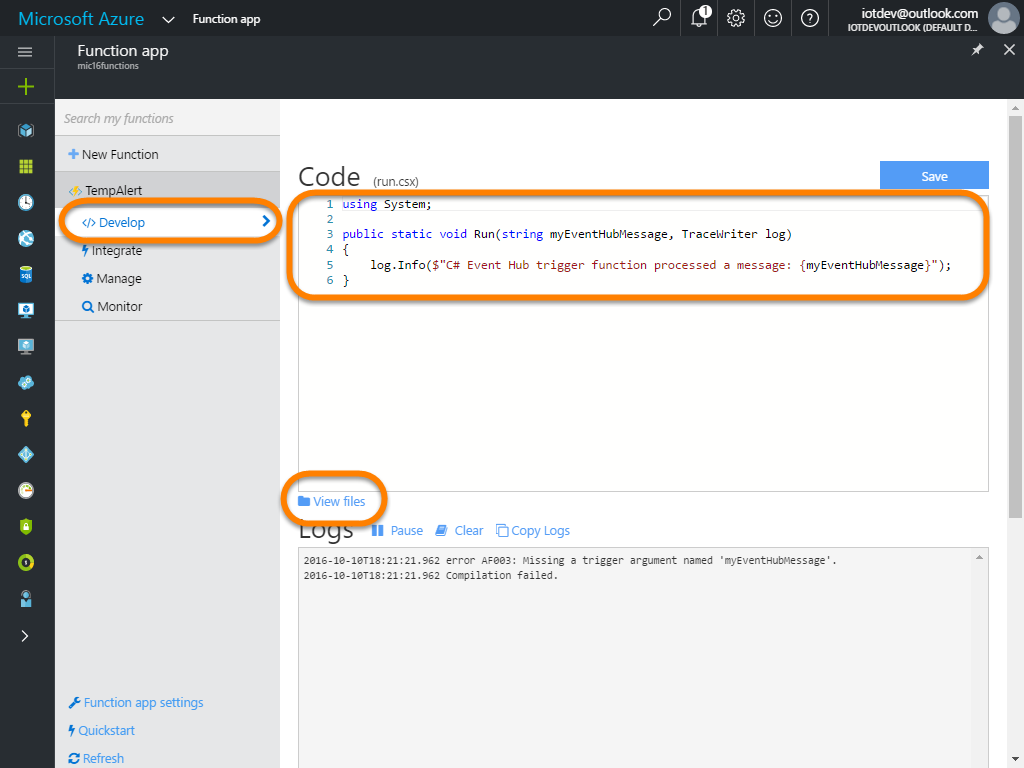
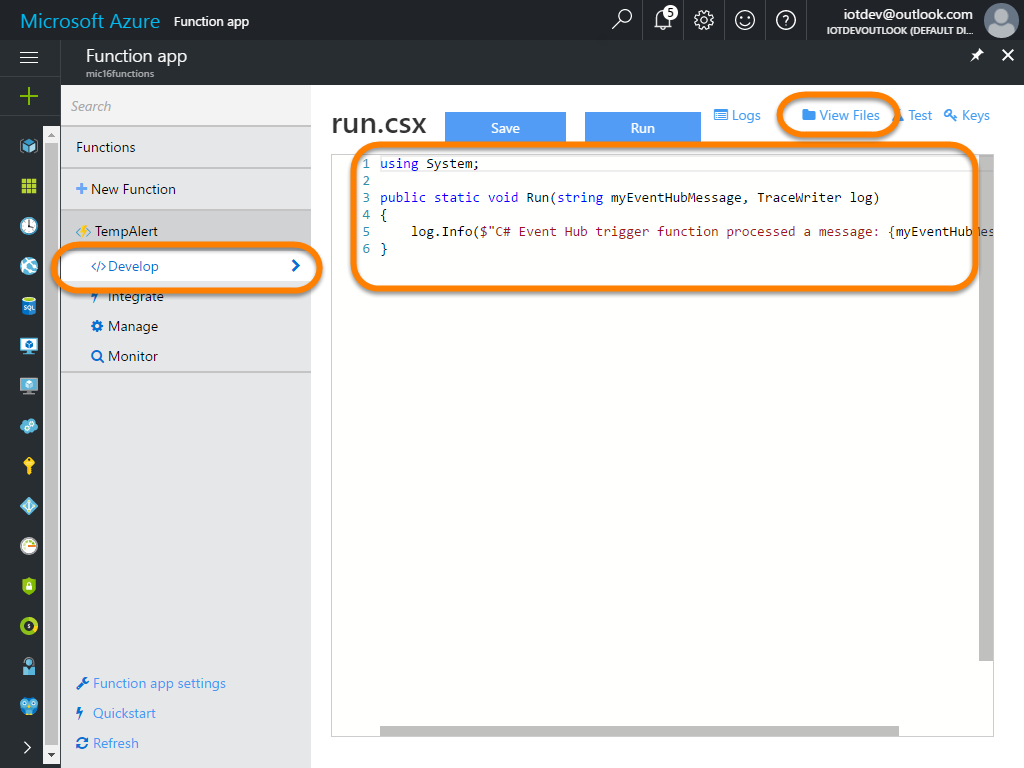
Updating lab - through temp alert function

Changed region(s): [[0.0, 0.0, 1.0, 1.0], [0.375, 0.9375, 0.875, 0.9688], [0.0, 0.0625, 0.0312, 0.125]]

diff --git a/HOLs/readme.md b/HOLs/readme.md
@@ -1485,7 +1485,9 @@ Previously, we setup our ***&lt;name&gt;job*** Stream Analytics Job to forward m
 
 In this task, we'll create the **TempAlert** function and have it receive those alert messages from the event hub, and send a temp alert message back down to the device.
 
-1. Open the **<a target="_blank" href="https://portal.azure.com/">Azure Portal</a>** (<a target="_blank" href="https://portal.azure.com/">https://portal.azure.com</a>) in the browser, and close any blades open from previous steps.  Then click "**+ New**" | "**Virtual Machines**" | "**Function App**". Function apps used to be listed under **Compute** and your Azure Portal may differ from the screenshot below.
+1. Open the **<a target="_blank" href="https://portal.azure.com/">Azure Portal</a>** (<a target="_blank" href="https://portal.azure.com/">https://portal.azure.com</a>) in the browser, and close any blades open from previous steps.  Then click "**+ New**" | "**Compute**" | "**Function App**": 
+
+    > **Note**: Function apps may appear in your portal **Virtual Machines** instead.
 
     ![New Function App](images/12065-NewFunctionApp.png)
 
@@ -1494,7 +1496,8 @@ In this task, we'll create the **TempAlert** function and have it receive those 
     - App name - ***&lt;name&gt;functions***
     - Subscription - **Chose the same subscription used for the previous resources**
     - Resource group - Choose "**Use existing**" and select the ***&lt;name&gt;group*** resource group created previously
-    - App Service Plan - Select "**Classic**" and then choose the ***&lt;name&gt;plan*** plan we created previously.
+    - Hosting Plan - Choose "**App Service Plan**"
+    - App Service Plan - Select the ***&lt;name&gt;plan*** plan we created previously.
     - Storage Account - Select "**Create New**" and name it ***&lt;name&gt;storage***
     - Pin to dashboard - **Checked**
 
@@ -1526,21 +1529,29 @@ In this task, we'll create the **TempAlert** function and have it receive those 
 
     ![Function Integration](images/12110-FunctionIntegration.png)
 
-1. Switch back to the "**Develop**" page for the function.  The code for our C# function is stored in the "**run.csx*"" file.  The default code simply logs the contents of the "myEventHubMessage" parameter value to the console.  We are going to upload some files into our function that provides a little more functionality.  To do that, click the "**View files**" link:
+1. Switch back to the "**Develop**" page for the function.  The code for our C# function is stored in the "**run.csx**"" file.  The default code simply logs the contents of the "myEventHubMessage" parameter value to the console.
 
     ![Default Code](images/12120-DefaultCode.png)
 
-1. Click the button below the list of files to upload new files:
+1. We are going to replace the default code with something that provides a little more functionality. Back in Visual Studio Code, open the "**HOLs\FunctionApp\TempAlert\run.csc**" file.  If you receive a prompt from Visual Studio Code to fix unresolved dependencies, click "**Close**".  Once the file is open though, copy the entire contents of "**run.csx**" to the clipboard:
 
-    ![Upload Files Button](images/12130-UploadFilesButton.png)
+    ![Copy Run.csx](images/12126-CopyRunCsxToClipboard.png)
 
-1. In the "**Open**" dialog, navigate to the **HOLs/FunctionApp/TempAlert** folder under where you extracted the lab files, select the the following files, and click the "**Open**" button to upload them:
+1. Back in the portal, replace the entire contents of the run.csx file with the code you copied from Visual Studio Code, then clickthe "**Save**" button to save the changes:
 
-    - "**project.json**" - This is a regular C# project.json file that defines the various nuget packages that are needed by the code in our function.  Because our function will be sending message to Azure IoT Hub devices, it needs to have the Azure IoT Hub SDKs available.  The project.json file defines those dependencies allows the Azure Function App platform to load them.
-    - "**run.csx**" - This is a more robust block of function code that parses the "**myEventHubMessage**" sent in by the Event Hub Trigger, generates and Alert message, and then uses the Azure IoT Hub SDKs to send the message to the appropriate device based on the "deviceID" property of the incomnig message.
-    - "**function.json**" - **DO NOT UPLOAD THE FUNCTION.JSON FILE**.  This file stores the trigger, input and output integrations, and we have already configured the integration for our function.
+    ![Paste Code into run.csx in the Portal](images/12128-PasteCodeInRunCsx.png)
 
-    ![Upload Files](images/12140-UploadFiles.png)
+1. The code we pasted into "**run.csx**" depends on some libraries (like `Microsoft.Azure.Devices` and `Newtonsoft.Json` as well as others.  To make sure the the libraries are installed on the server, we need to specify them in a "**project.json**" file. To add a "**project.json**" file to our our function, click the "**View Files**"" button, then click the "**+ Add**" button, and name the new file "**project.json**" (all lower case):
+
+    ![Add project.json](images/12130-AddProjectJson.png)
+
+1. Back in Visual Studio Code, copy the contents of the "**HOLs\FunctionApp\TempAlert\project.json**" file to the clipboard:
+
+    ![Copy project.json contents](images/12132-CopyProjectJson.png)
+
+1. And back in the portal, replace the contents of the new "**project.json**" file you just created with the contents you copied from Visual Studio Code:
+
+    ![Paste project.json contents](images/12134-PasteProjectJson.png)
 
 1. Once the upload is complete, click on each file ("**function.json**","**project.json**", and "**run.csx**") to review their contents.
 
@@ -1550,7 +1561,7 @@ In this task, we'll create the **TempAlert** function and have it receive those 
 
     ![Review run.csx](images/12170-RevewRunCsx.png)
 
-1. In the "**run.csx**" file, locate the line of code that reads:
+1. In the "**run.csx**" file, locate the line of code that reads (should be at line 31 or so):
 
     ```c#
     static string connectionString = "<Your IoT Hub "service" SAS Policy Primary Connection String goes here>";
